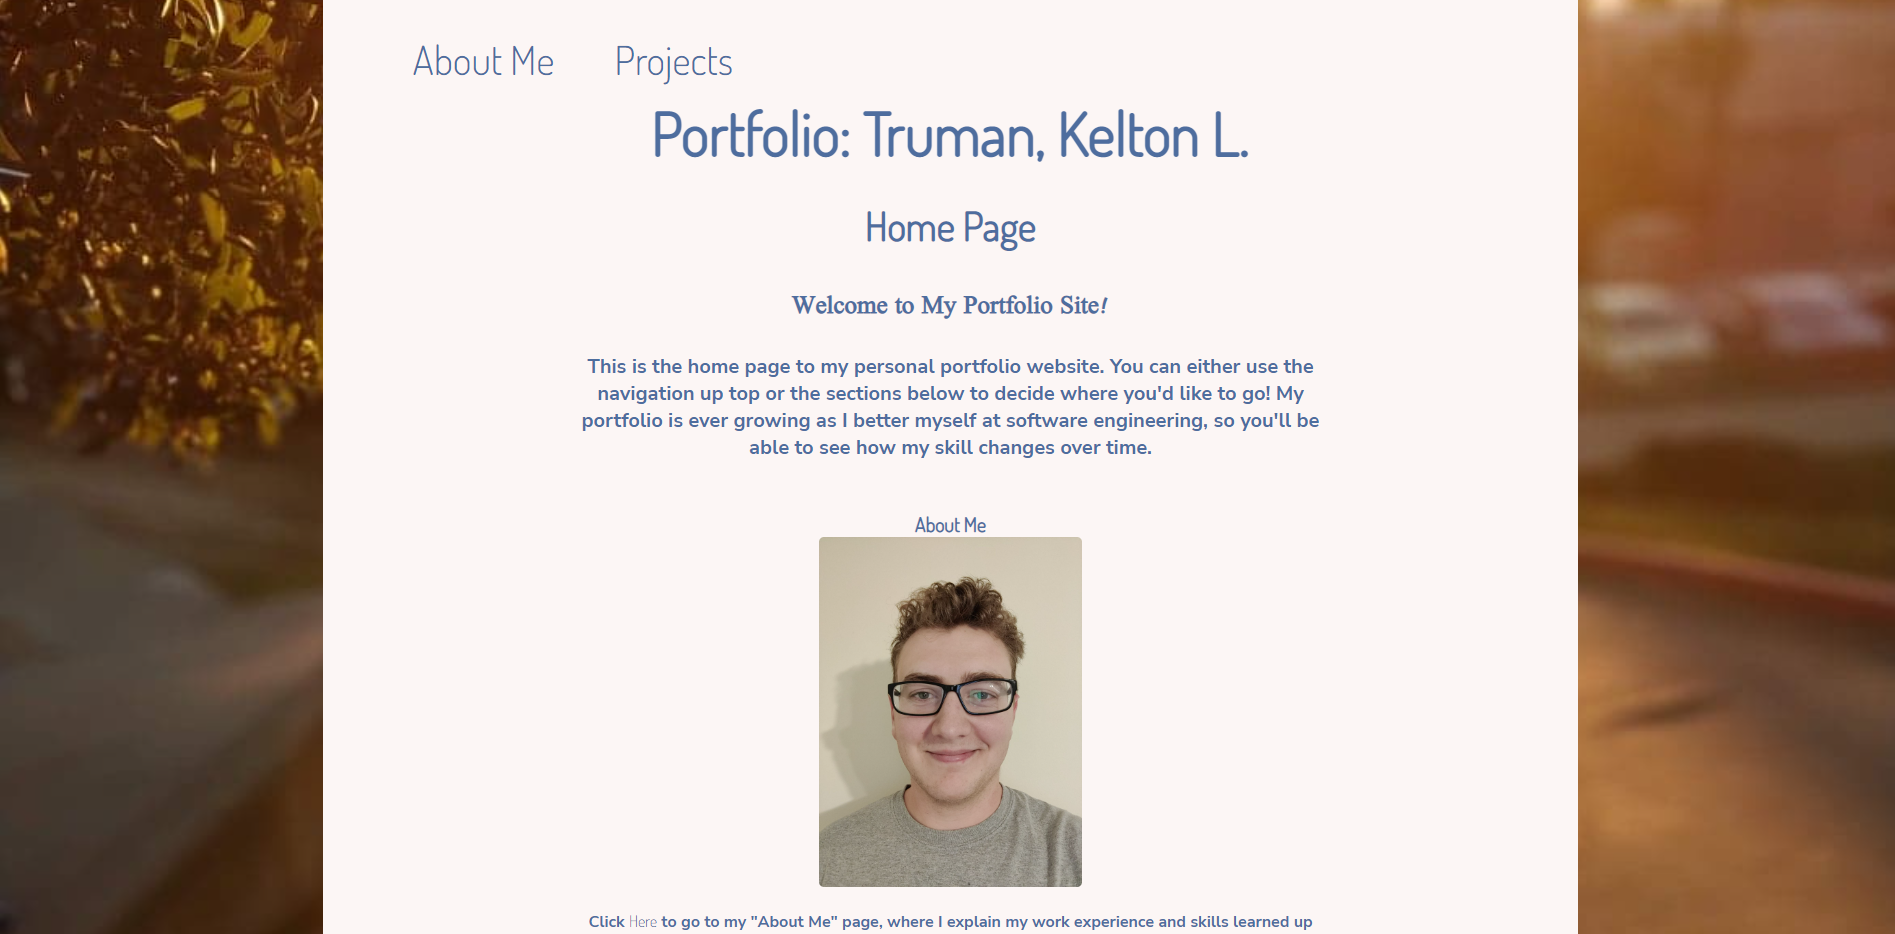
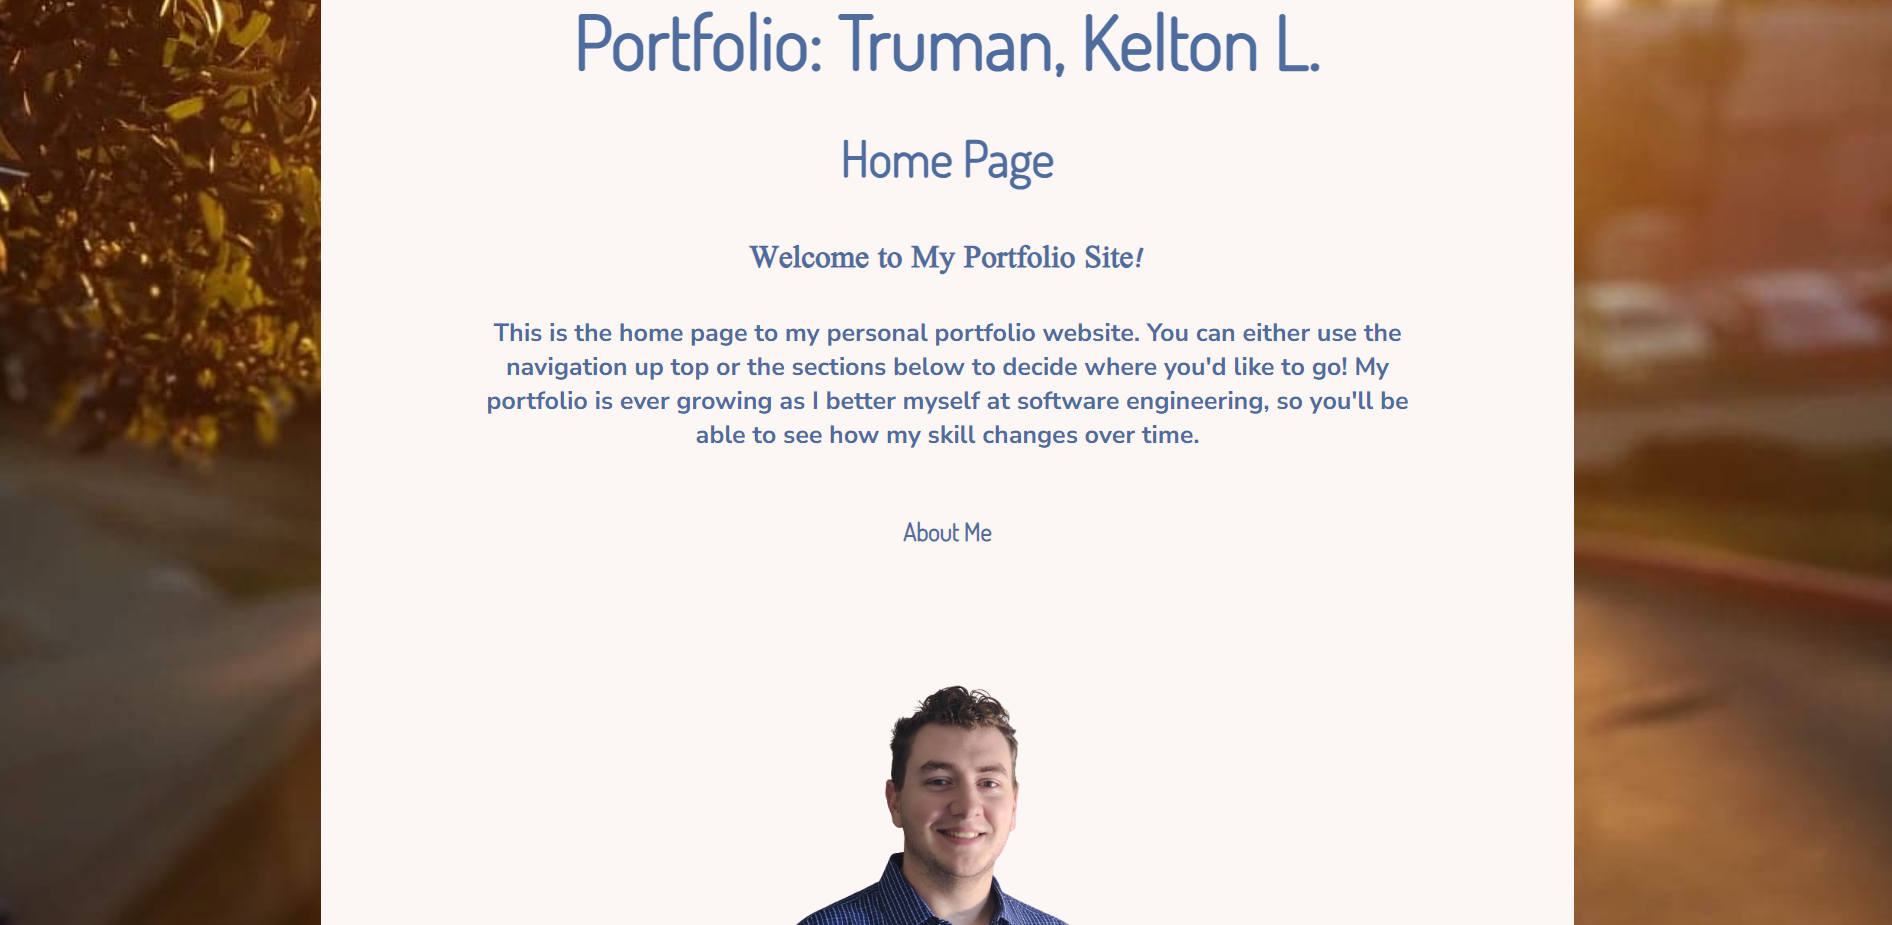
Minor Fixes
Updated portfolio website image, added media query for jamming react app on project page

diff --git a/Projects Page/style.css b/Projects Page/style.css
@@ -446,6 +446,19 @@ p {
         font-size: 50px;
         padding: 30px 0px;
     }
+    .jammmingPic {
+        width: 700px;
+        height: auto;
+    }
+    .jammmingPic:hover {
+        width: 730px;
+        height: auto;
+    }
+    .title-jammming {
+        opacity: 1;
+        font-size: 50px;
+        padding: 30px 0px;
+    }
      .contacts {
         max-width: 450px;
         min-width: none;
